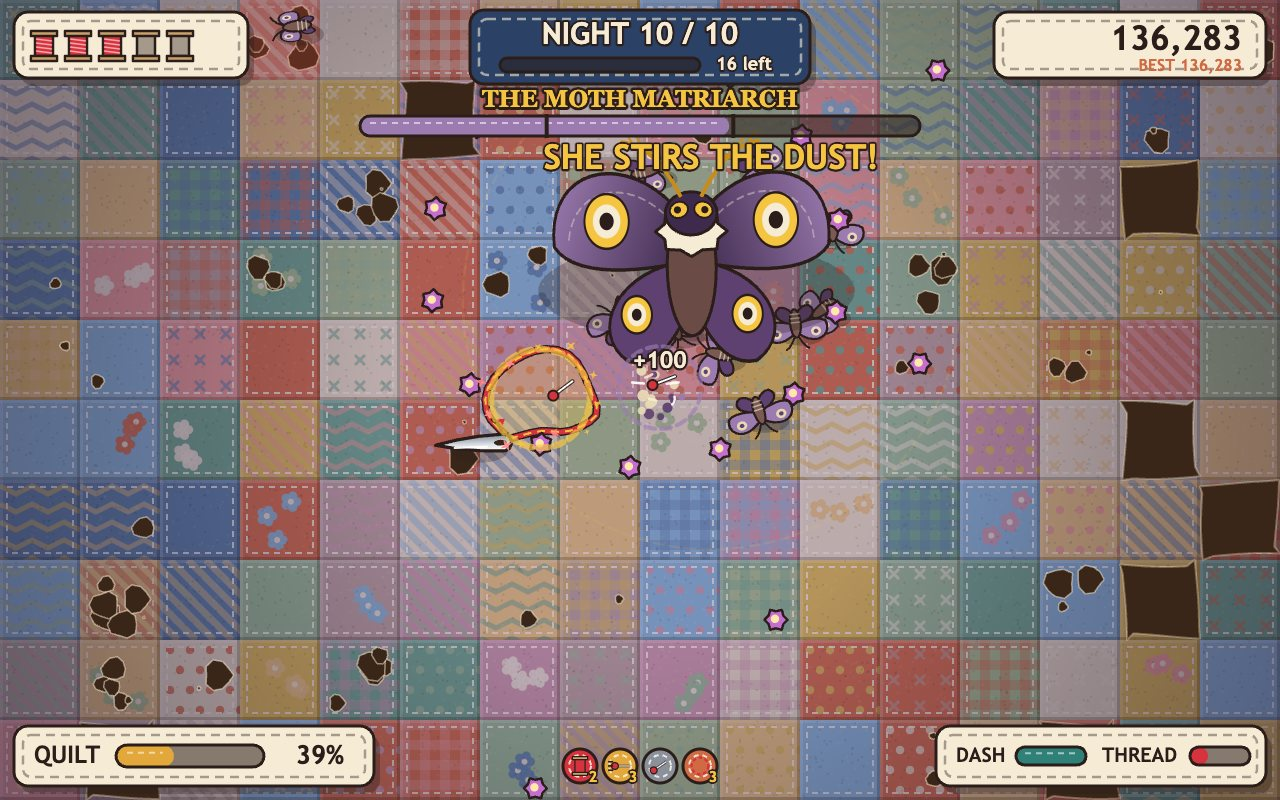
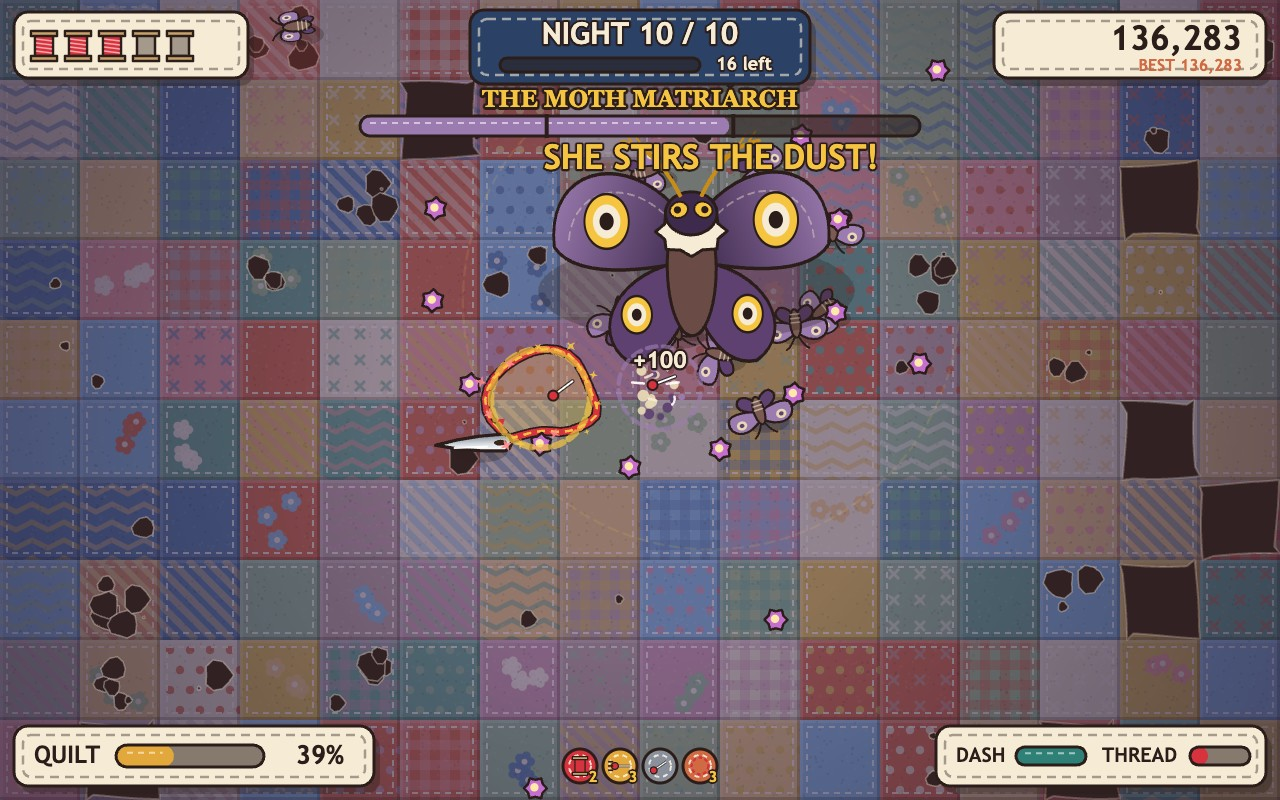
Night deepens each wave; bolder thread and cinch lines

diff --git a/game/src/render.js b/game/src/render.js
@@ -28,6 +28,7 @@ export function drawScene(ctx, run, time) {
   ctx.save();
   ctx.translate(shake.x, shake.y);
   drawQuilt(ctx, run.quilt);
+  drawNightShade(ctx, run);
   drawCinches(ctx, run);
   drawThread(ctx, run, time);
   drawTelegraphs(ctx, run);
@@ -45,6 +46,14 @@ export function drawScene(ctx, run, time) {
   drawFloaters(ctx, run.fx);
   ctx.restore();
   drawScreenFlash(ctx, run.fx, VIEW.width, VIEW.height);
+}
+
+/** The night deepens as the run goes on: evening on night 1, deep indigo by the Matriarch. */
+function drawNightShade(ctx, run) {
+  const depth = Math.max(0, run.wave - 1) / 9;
+  if (depth <= 0) return;
+  ctx.fillStyle = `rgba(28,20,64,${(0.26 * depth).toFixed(3)})`;
+  ctx.fillRect(-40, -40, VIEW.width + 80, VIEW.height + 80);
 }
 
 function drawEnemy(ctx, enemy, time) {
@@ -100,10 +109,10 @@ function drawThread(ctx, run, time) {
   ctx.restore();
   path();
   ctx.strokeStyle = PALETTE.ink;
-  ctx.lineWidth = 6.5;
+  ctx.lineWidth = 8;
   ctx.stroke();
   ctx.strokeStyle = PALETTE.thread;
-  ctx.lineWidth = 4;
+  ctx.lineWidth = 5;
   ctx.stroke();
   ctx.strokeStyle = 'rgba(255,190,190,0.85)';
   ctx.lineWidth = 1.5;
@@ -145,13 +154,13 @@ function drawCinches(ctx, run) {
     ctx.fillStyle = `rgba(245,197,66,${0.45 * (1 - t)})`;
     ctx.fill();
     ctx.strokeStyle = PALETTE.ink;
-    ctx.lineWidth = 8;
+    ctx.lineWidth = 10;
     ctx.stroke();
     ctx.strokeStyle = PALETTE.thread;
-    ctx.lineWidth = 5;
+    ctx.lineWidth = 6.5;
     ctx.stroke();
     ctx.strokeStyle = PALETTE.gold;
-    ctx.lineWidth = 2;
+    ctx.lineWidth = 2.5;
     ctx.setLineDash([8, 6]);
     ctx.stroke();
     ctx.setLineDash([]);
